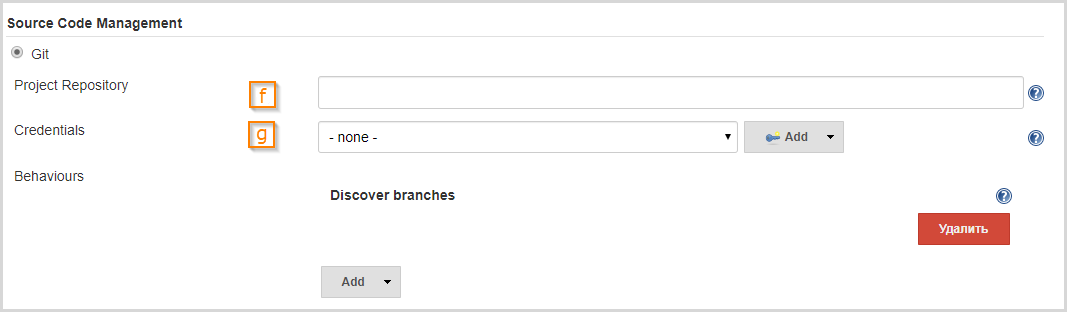
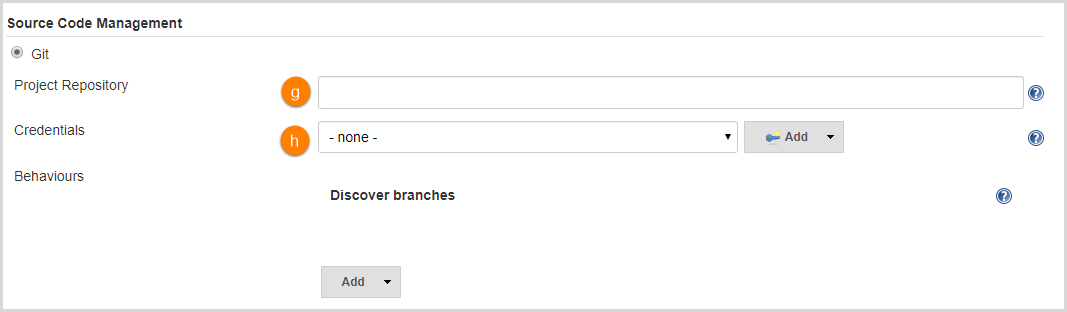
[EPMDEDP-10975]: docs: Update the Add Custom Global Pipeline Lib document

Changed region(s): [[0.2165, 0.2308, 0.3093, 0.5192], [0.8351, 0.6635, 0.9588, 0.8077]]

diff --git a/docs/user-guide/add-custom-global-pipeline-lib.md b/docs/user-guide/add-custom-global-pipeline-lib.md
@@ -11,24 +11,26 @@ In order to add a new custom global pipeline library, perform the steps below:
 
   !![Add custom library](../assets/user-guide/add_custom_lib.png)
 
-  a - The name of a custom library;
+  a. **Library name**: The name of a custom library.
 
-  b - The version which can be branched, tagged or hashed of a commit;
+  b. **Default version**: The version which can be branched, tagged or hashed of a commit.
 
-  c - Allows pipelines the immediate using of classes or global variables defined by any libraries;
+  c. **Load implicitly**: If checked, scripts will automatically have access to this library without needing to request it via @Library. It means that there is no need to upload the library manually because it will be downloaded automatically during the build for each job.
 
-  d - Allows using the default version of the configured shared-library when the **Load implicitly** check box is selected;
+  d. **Allow default version to be overridden**: If checked, scripts may select a custom version of the library by appending @someversion in the @Library annotation. Otherwise, they are restricted to using the version selected here.
 
-  e - Allows using the default version of the configured shared-library if the pipeline references to the library only by the name, for example, `@Library('my-shared-library')`.
+  e. **Include @Library changes in job recent changes**: If checked, any changes in the library will be included in the changesets of a build, and changing the library would cause new builds to run for Pipelines that include this library. This can be overridden in the jenkinsfile: @Library(value="name@version", changelog=true|false)
+
+  f. **Cache fetched versions on controller for quick retrieval**: If checked, versions fetched using this library will be cached on the controller. If a new library version is not downloaded during the build for some reason, remove the previous library version from cache in the Jenkins workspace.
 
   !!! note
-      If the **Default version** check box is **not defined**, the pipeline must specify a version, for example, `@Library('my-shared-library@master')`. If the **Allow default version to be overridden** check box is enabled in the Shared Library’s configuration, a @Library annotation may also override the default version defined for the library. This also enables the library with the selected **Load implicitly** check box to be loaded from a different version if necessary.
+      If the **Default version** check box is **not defined**, the pipeline must specify a version, for example, `@Library('my-shared-library@master')`. If the **Allow default version to be overridden** check box is enabled in the Shared Library’s configuration, a @Library annotation may also override the default version defined for the library.
 
   !![Source code management](../assets/user-guide/add_custom_lib2.png)
 
-  f - The URL of the repository;
+  g. **Project repository**: The URL of the repository
 
-  g - The credentials for the repository.
+  h **Credentials**: The credentials for the repository.
 
 3. Use the Custom Global Pipeline Libraries on the pipeline, for example:
 
